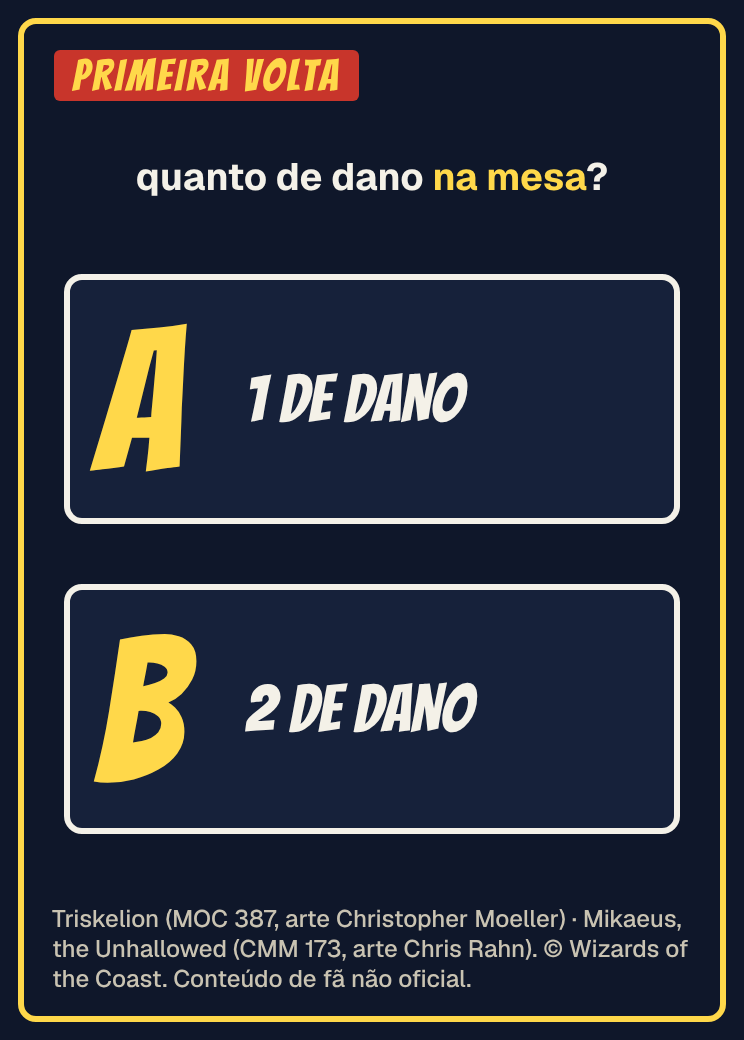
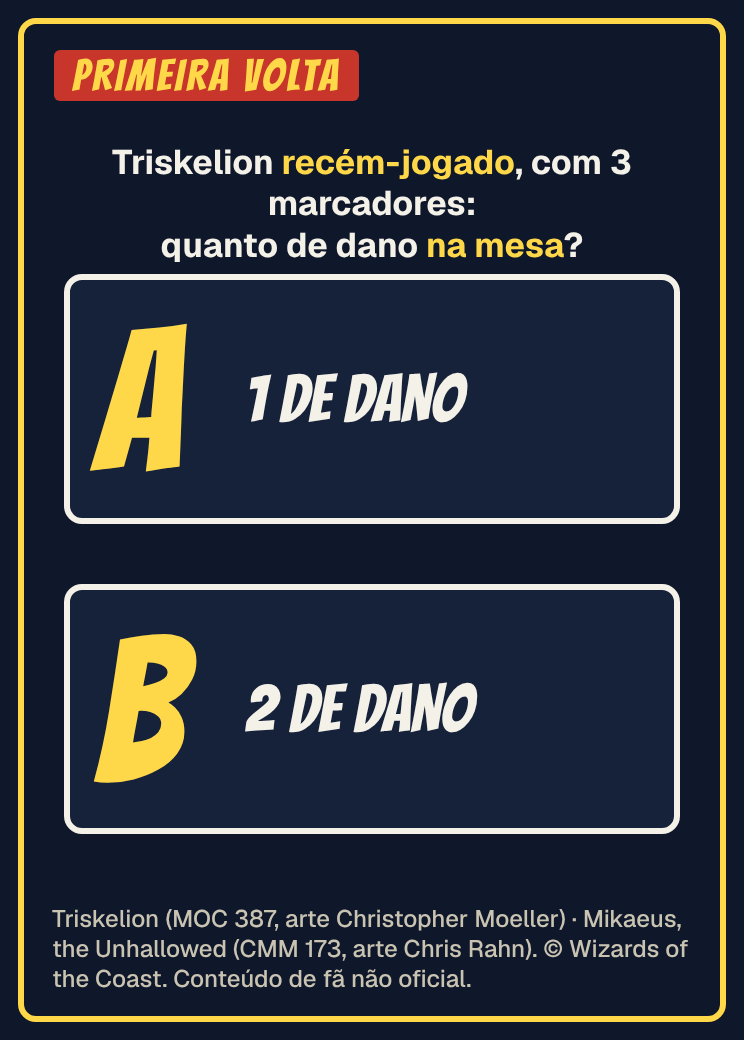
MB-EP19: revisão v2 (medidor do bracket, selo da abertura, pergunta sem ambiguidade)
Claude-Session: https://claude.ai/code/session_016gdr9eJRifWnvZLj3cErbL

Changed region(s): [[0.1546, 0.1231, 0.8656, 0.2462]]

diff --git a/manaburn/episodios/ep19_robo_imortal/episode.js b/manaburn/episodios/ep19_robo_imortal/episode.js
@@ -9,8 +9,8 @@ const LOOP = 'Na tela: Triskelion (MOC 387, arte Christopher Moeller) e Mikaeus,
 const VID = 'Na tela: exemplo de mesa de 4 a 40 de vida. Triskelion (MOC 387, arte Christopher Moeller).<br>' + CR;
 const RIP = 'Na tela: Rest in Peace (The Big Score, 2024), nº 4. Arte: Grady Frederick.<br>' + CR;
 // linhas medidas nos PNG do Scryfall (744x1040), 26/11/2026
-const BRK = { title: 'BRACKET', value: '3+', fill: 0.6, calc: ['combo de 2 cartas', 'fora do 1 e do 2', 'EDHREC · 26/11'],
-              levels: [['CASUAL', '#6FB487'], ['UPGRADED', '#F4B414'], ['cEDH', '#FF5A4E']] };
+const BRK = { title: 'BRACKET', value: '3+', fill: 0.6, calc: ['2 cartas:', 'fora do 1 e 2', 'EDHREC · 26/11'],
+              levels: [['cEDH', '#FF5A4E'], ['UPGRADED', '#F4B414'], ['CASUAL', '#6FB487']] };  // levels[0] = topo da barra (vermelho)
 const HL_UNDY = [[0.07, 0.748, 0.85, 0.062]];          // «Other non-Human creatures… +1/+1 and have undying»
 const HL_SEM = [[0.07, 0.806, 0.85, 0.032]];           // «…dies, if it had no +1/+1 counters on it»
 const HL_ENTRA = [[0.07, 0.659, 0.86, 0.058]];         // «enters the battlefield with three +1/+1 counters»
@@ -24,7 +24,7 @@ const EP = {
   fx: { foco: true, tremor: true, poster: true, celular: true, scanner: false, tv_ligada: true },
   outro: { assinatura: 'Escaneie suas cartas e organize sua coleção.' },
   card: { img: 'cards/t00_robo.png', cred: TRI },
-  abertura: { img: 'cards/triskelion.png', ate: 0.42, hl: HL_REMOVE, selo: { txt: '2 TIROS → ∞', x: 0.07, y: 0.11, rot: -6, size: 54 } },
+  abertura: { img: 'cards/triskelion.png', ate: 0.42, hl: HL_REMOVE, selo: { txt: '2 TIROS → ∞', x: 0.645, y: 0.125, rot: -3, size: 38 } },
   legenda_paginas: 58,
   prova: { w: 620, top: 330, segs: [
     { fala: 1, de: 0, img: 'cards/mikaeus.png', hl: HL_UNDY, zoom: { de: 0.4, alvo: TXT, s: 1.6 }, faixa: 'NÃO HUMANAS GANHAM UNDYING' },

diff --git a/manaburn/episodios/ep19_robo_imortal/telas_robo.py b/manaburn/episodios/ep19_robo_imortal/telas_robo.py
@@ -105,7 +105,7 @@ TELAS = {
    <div class="fonte">Rest in Peace (BIG 4, arte Grady Frederick). {TRI}. {CR}</div></div>""",
  # fala 13 (TV): pergunta A/B
  't12_ab': f"""<div class="f"><span class="badge">PRIMEIRA VOLTA</span>
-   <div class="lv2" style="top:130px;font-size:38px">quanto de dano <em>na mesa</em>?</div>
+   <div class="lv2" style="top:118px;font-size:34px">Triskelion <em>recém-jogado</em>, com 3 marcadores:<br>quanto de dano <em>na mesa</em>?</div>
    <div class="opt" style="top:250px"><span class="l">A</span><span class="t">1 DE DANO</span></div>
    <div class="opt" style="top:560px"><span class="l">B</span><span class="t">2 DE DANO</span></div>
    <div class="fonte">{TRI} · {MIK}. {CR}</div></div>""",

diff --git a/manaburn/episodios/ep19_robo_imortal/ficha.md b/manaburn/episodios/ep19_robo_imortal/ficha.md
@@ -111,7 +111,7 @@ Revisão narrativa (§4.2): cada fala do Mana corrige ou acrescenta uma regra (u
 - Riscos: factuais (mitigados pelo Oracle, pela ruling e pelo Spellbook); direitos (cartas e artes © Wizards of the Coast, com crédito na tela e na legenda; conteúdo de fã).
 
 ## Controlo de qualidade
-Medido no ficheiro final `ManaBurn_Ep19_RoboQueNaoMorre_916.mp4` com `python3 -I comum/qc/qc_video.py … --frente manaburn` (26/11/2026, ~21h40).
+Medido no ficheiro final `ManaBurn_Ep19_RoboQueNaoMorre_916.mp4` (v2, revisão de 26/11/2026 22h45) com `python3 -I comum/qc/qc_video.py … --frente manaburn`; valores iguais aos da v1.
 
 | Critério | Alvo | Medido | OK |
 |---|---|---|---|
@@ -124,15 +124,27 @@ Medido no ficheiro final `ManaBurn_Ep19_RoboQueNaoMorre_916.mp4` com `python3 -I
 | Carta mostrada = carta falada | sim | Mikaeus nas falas 2 e 4, ruling na 6, Triskelion nas 7–8, loop na 10, Rest in Peace na 12 | ✓ |
 | Sequência do combo | ordem da fala | fala 10: «2 TIROS NELE / MORREU» → «VOLTA COM 4» | ✓ (painel reordenado depois da 1.ª prévia) |
 | Condição de vitória | demonstrada | mesa 40 → 0 (exemplo, 120 de dano ≈ 60 voltas) | ✓ |
-| Quadro 0 | carta + selo | Triskelion inteiro, linha do dano destacada, selo «2 TIROS → ∞» (na arte, sobre o céu e a ponta da cauda) | ✓ |
+| Quadro 0 | carta + selo | Triskelion inteiro, linha do dano destacada, selo «2 TIROS → ∞» no céu, canto superior direito da arte (v2) | ✓ |
 | Saída da abertura | ≤ 2,5 s | 2,2 s | ✓ |
 | Maior intervalo sem troca forte | ≤ 3 s | 4,1 s na fala 13 (pergunta na TV; troca `meio` discreta «COMENTA AÍ» a meio e câmara em movimento) e 3,3 s na fala 9 (Burn no sofá, personagens em movimento) | aceite (P2, mesmo caso do MB-EP18) |
 | P0 / P1 abertos | 0 / 0 | 0 / 0 | ✓ |
 
 Outros controlos: folha de contacto conferida a olho (`folha_contacto_final.png`): cartas inteiras, destaques alinhados nas linhas citadas, nada sobre o texto das cartas, legendas na zona segura. Na aproximação ao texto do Mikaeus (fala 4) as margens da carta ficam fora da janela, como em todos os zooms do plano de prova.
 
+## Revisão (26/11/2026, 22h45, pedido do fundador «Revise o episódio do robô»)
+Revisão de factos, roteiro, telas e quadros do ficheiro final. Factos, roteiro e áudio sem erros: não se mexeu nas vozes (0 créditos). Três correções visuais, novo render (v2):
+
+| Problema na v1 | Correção na v2 | Gravidade |
+|---|---|---|
+| Medidor da TV com «cEDH» em baixo e «CASUAL» em cima, ao contrário da barra (verde em baixo, vermelho em cima): o «3+» parecia perto do cEDH | `levels` invertidos: cEDH no topo, CASUAL em baixo | P1 (leitura errada de um dado) |
+| Conta do medidor cortada pela moldura da TV («combo de 2 carta:») | conta encurtada: «2 cartas: / fora do 1 e 2 / EDHREC · 26/11» | P2 |
+| Selo da abertura sobre a cauda do robô (canto superior esquerdo da arte) | selo menor no céu, canto superior direito, fora da criatura e do nome | P2 |
+| Pergunta «primeira volta» com duas leituras possíveis (recém-jogado com 3 marcadores ou depois do 1.º undying com 4) | tela da pergunta diz «Triskelion recém-jogado, com 3 marcadores: quanto de dano na mesa?» (a fala do Burn não muda) | P1 (resposta do comentário fixado tem de ser inequívoca) |
+
+Mantidos (P2, sem mudança): 4,1 s na fala 13 com a pergunta na TV (troca «COMENTA AÍ» a meio) e 3,3 s do Burn no sofá na fala 9. A manchete «Plantão anterior: lagarto de duas manas cria infinito» pressupõe o MB-EP18 publicado antes: publicar o EP18 primeiro.
+
 ## Ficheiros finais
-- Vídeo final: `ManaBurn_Ep19_RoboQueNaoMorre_916.mp4` · 50,90 s · entregue ao fundador na conversa de 26/11/2026 (projeto claude.ai); não versionado.
+- Vídeo final: `ManaBurn_Ep19_RoboQueNaoMorre_916.mp4` **v2** (revisão de 22h45) · 50,90 s · entregue ao fundador na conversa de 26/11/2026 (projeto claude.ai); a v1 não se publica; não versionado.
 - Capa: `MB_EP19_CAPA.png` (frase «O ROBÔ QUE NÃO» + foco «MORRE», selo «2 TIROS NELE», faixa «MANA & BURN · EP. 19», tag COMMANDER). Grelha 3:4: `MB_EP19_CAPA_grelha.png`.
 - Telas: `cards/t*.png` (geradas por `telas_robo.py`).
 

diff --git a/comum/historico.md b/comum/historico.md
@@ -161,3 +161,4 @@ Formato: data · ID · frente · acontecimento · estado. Mais recente no fim.
 - 26/11/2026, 17h50 · MB-EP18 «O Lagarto Infinito» CONCLUÍDO: Basking Broodscale + Rosie Cotton (combo de 2 cartas) com o Corpse Knight como finalizador; deck Abzan de Frodo e Sam (100 cartas, estimativa R$ 290,15, preços por verificar em loja BR); vozes 1.143 créditos; 51,17 s, −14,7 LUFS, QC sem problemas. Ficha: `manaburn/episodios/ep18_lagarto_infinito/ficha.md`.
 - 26/11/2026, 21h45 · Mana & Burn: «Episódio de combo» passa a padrão recorrente (não exclusivo) em `manaburn/PERFIL.md`; decisão em `nucleo/DECISOES.md`. MB-EP18 verificado, sem alterações.
 - 26/11/2026, 21h45 · MB-EP19 «O Robô Que Não Morre» CONCLUÍDO: Mikaeus, the Unhallowed + Triskelion (combo de 2 cartas, dano infinito com undying), escolhido entre 3 candidatos; vozes 1.112 créditos; 50,90 s, −14,7 LUFS, QC sem problemas. Ficha: `manaburn/episodios/ep19_robo_imortal/ficha.md`.
+- 26/11/2026, 22h45 · MB-EP19 revisto a pedido do fundador: medidor do bracket com os níveis na ordem certa, conta sem corte, selo da abertura fora da criatura, pergunta da 1.ª volta sem ambiguidade; novo render v2 (0 créditos), QC igual.
